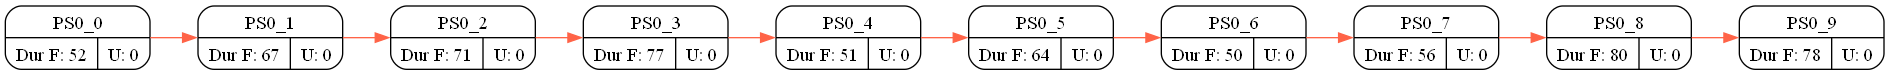
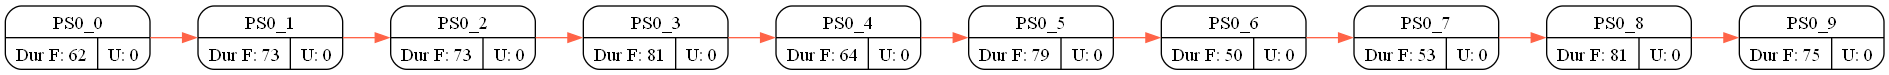
machine dependent duration in Solution Checker

diff --git a/demonstrator/tbischeduling/src/main/java/org/insightcentre/tbischeduling/implementedsolver/CheckSolutions.java b/demonstrator/tbischeduling/src/main/java/org/insightcentre/tbischeduling/implementedsolver/CheckSolutions.java
@@ -136,11 +136,11 @@ public class CheckSolutions {
                     newError(sol, "TaskAssignment", ta.getName(), "duration", ta.getDuration(),
                             "Duration is wrong, should be " + (ta.getEnd() - ta.getStart()), Fatal);
                 }
-                if (ta.getDuration() > (int) t.getDuration()) {
+                if (ta.getDuration() > expectedDuration(ta)) {
                     newError(sol, "TaskAssignment", ta.getName(), "duration", ta.getDuration(),
                             "Assigned Task is longer than needed, should be " + (t.getDuration()), Minor);
                 }
-                if (ta.getDuration() < (int) t.getDuration()) {
+                if (ta.getDuration() < expectedDuration(ta)) {
                     newError(sol, "TaskAssignment", ta.getName(), "duration", ta.getDuration(),
                             "Assigned Task is too short, should be " + (t.getDuration()), Fatal);
                 }
@@ -326,5 +326,24 @@ public class CheckSolutions {
     }
     private String sequenceKey(ProcessSequence seq){
         return seq.getBefore().getName()+"/"+seq.getAfter().getName();
+    }
+
+    private int expectedDuration(TaskAssignment ta){
+        return durationOnMachine(ta.getTask().getDuration(),ta.getTask(),ta.getDisjunctiveResource());
+    }
+
+    private int durationOnMachine(int dur, Task t,DisjunctiveResource r){
+        ProcessStep ps = t.getProcessStep();
+        for(ResourceNeed rn:base.getListResourceNeed()){
+            if (rn.getProcessStep() == ps && rn.getDisjunctiveResource() == r){
+                int duration = rn.getDurationFixed()+rn.getDurationPerUnit()*t.getJob().getOrder().getQty();
+//                if (duration != dur){
+//                    info("Duration differ "+dur+" "+duration);
+//                }
+                return duration;
+            }
+        }
+        return dur;
+
     }
 }
